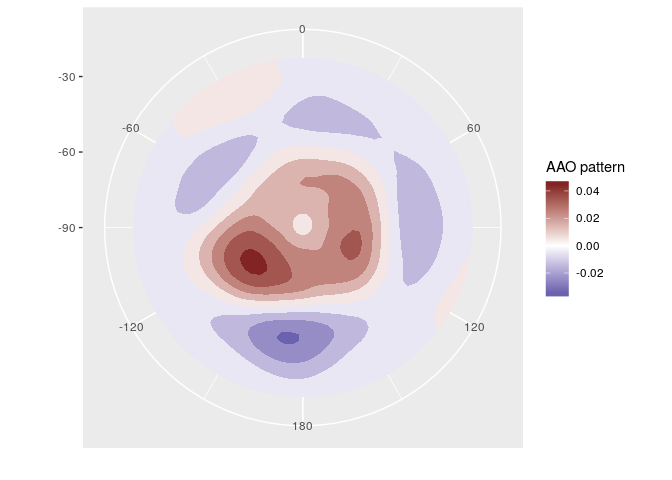
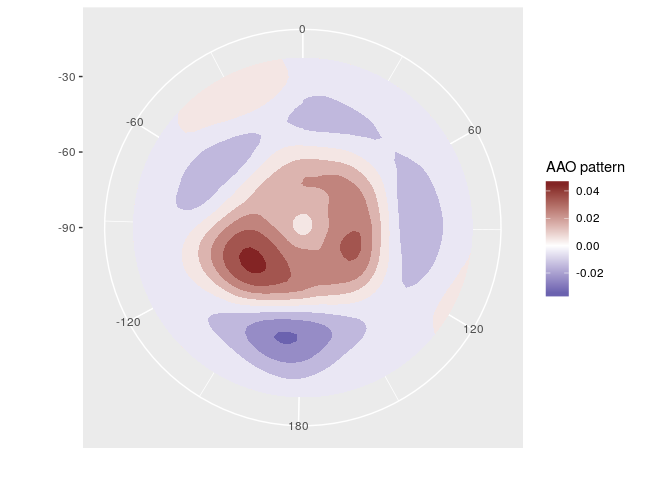
badge!

diff --git a/README.md b/README.md
@@ -3,9 +3,13 @@
 meteoR
 ======
 
+![](https://travis-ci.org/eliocamp/meteoR.svg?branch=master)
+
 meteR packages several functions and utilities that make R better for hadling meteorological data in the tidy data paradigm. It's not intended to be the be-all and end-all and is (at least for now) mostly a packaging of assorted wrapers and tricks that I wrote for my day to day work as a researcher in atmospheric sciences. Since it's grown organically and for my own needs, do not expect a heavy emphasis on consistency across functions and do expect functions written with specific use cases in mind.
 
 Conceptually it's divided into *visualization tools* and *data tools*. The former are geoms, stats and scales that help with plotting using [ggplot2](http://ggplot2.tidyverse.org/index.html), such as `stat_contour_fill()` or `scale_y_level()`, while the later are functions for common data processing tools in the atmospheric sciences, such as `Derivate()` or `EOF()`; these are implemented to work in the [data.table](https://github.com/Rdatatable/data.table/wiki) paradigm, but also work with regular data frames.
+
+Currently meteoR is in developement and should only be used carefully. Functions do not generaly check arguments and do not print error messages. There are also no tests, so coverage is exactly 0%.
 
 Installation
 ------------
@@ -36,7 +40,7 @@ aao[, gh.t.w := Anomaly(gh)*sqrt(cos(lat*pi/180)),
 aao.svd <- EOF(aao, lat + lon ~ date, value.var = "gh.t.w", n = 1)
 
 # AAO field
-ggplot(RepeatLon(aao.svd$left), aes(lon, lat, z = value)) +
+ggplot(aao.svd$left, aes(lon, lat, z = value)) +
     stat_contour_fill() +    # filled contours!
     scale_x_longitude() +
     scale_y_latitude(limits = c(-90, -20)) +
